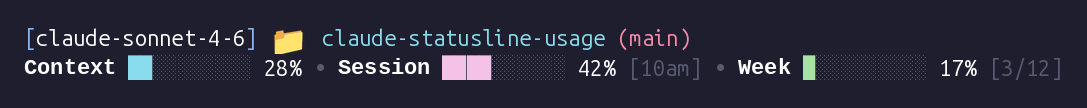
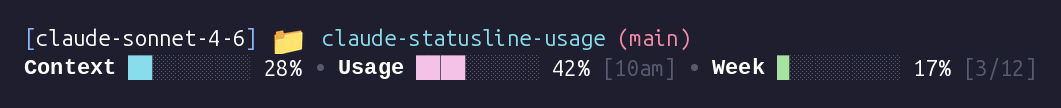
Rename Session -> Usage

Changed region(s): [[0.0, 0.5, 0.9642, 0.75], [0.0311, 0.25, 0.6532, 0.5]]

diff --git a/tests/test_statusline.py b/tests/test_statusline.py
@@ -126,13 +126,13 @@ class TestContextSection:
 
 
 # ---------------------------------------------------------------------------
-# Line 2 — Session section
+# Line 2 — Usage section
 # ---------------------------------------------------------------------------
 
-class TestSessionSection:
-    def test_session_label_shown(self):
+class TestUsageSection:
+    def test_usage_label_shown(self):
         _, line2 = run_script({}, ccburn_mock=make_ccburn())
-        assert "Session" in line2
+        assert "Usage" in line2
 
     def test_session_percentage(self):
         _, line2 = run_script({}, ccburn_mock=make_ccburn(session_util=0.45))
@@ -160,7 +160,7 @@ class TestSessionSection:
 
     def test_session_absent_with_no_data(self):
         _, line2 = run_script({}, ccburn_mock={"limits": {}})
-        assert "Session" not in line2
+        assert "Usage" not in line2
 
     def test_null_session_util_omits_section(self):
         mock = {
@@ -170,7 +170,7 @@ class TestSessionSection:
             }
         }
         _, line2 = run_script({}, ccburn_mock=mock)
-        assert "Session" not in line2
+        assert "Usage" not in line2
 
 
 # ---------------------------------------------------------------------------
@@ -211,7 +211,7 @@ class TestWeekSection:
         }
         _, line2 = run_script({}, ccburn_mock=mock)
         assert "Week" not in line2
-        assert "Session" in line2
+        assert "Usage" in line2
 
 
 # ---------------------------------------------------------------------------

diff --git a/README.md b/README.md
@@ -11,9 +11,9 @@ A Claude Code statusline script that displays context window usage and subscript
 `src/statusline.sh` renders two lines:
 
 - **Line 1:** active model, current folder, git branch
-- **Line 2:** context window fill bar · session rate-limit bar · weekly rate-limit bar
+- **Line 2:** context window fill bar · usage rate-limit bar · weekly rate-limit bar
 
-Context is always shown. Session and weekly bars appear when `ccburn` data is available.
+Context is always shown. Usage and weekly bars appear when `ccburn` data is available.
 
 ## Requirements
 
